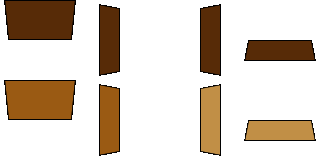
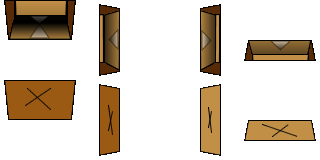
Changed the doors gfx (i'll reduce the doors invisible entrance area to keep Jesus cool, when he enters side doors). Just some idea Added the player shadow that's under the walls and over the BG floor

diff --git a/src/player.js b/src/player.js
@@ -1,6 +1,7 @@
 "use strict";
 waw.Player = waw.Unit.extend({
     sprite: null,
+    shadowSprite: null,
     speed: 0,
     movement: null,
     direction: null,
@@ -116,13 +117,11 @@ waw.Player = waw.Unit.extend({
                 delay: 0.1
             }
         };
-
-        var shadow = cc.Sprite.create(s_Shadow);
-        shadow.setPosition(0, -22);
-        this.addChild(shadow);
-
         this.sprite = new waw.AnimatedSprite(s_Jesus, animData);
         this.addChild(this.sprite);
+
+        //create players shadow sprite
+        this.shadowSprite = cc.Sprite.create(s_Shadow);
 
         this.alive = true;
     },
@@ -222,6 +221,9 @@ waw.Player = waw.Unit.extend({
         this.setPosition(pos);
         //Z Index
         this.setZOrder(250- pos.y);
+
+        //position shadow
+        this.shadowSprite.setPosition(pos.x, pos.y-8);
     },
     getState: function() {
         var state =

diff --git a/src/app.js b/src/app.js
@@ -52,6 +52,9 @@ waw.MainLayer = cc.Layer.extend({
         this.player = new waw.Player();
         this.player.setPosition(currentPlayerPos);
         this.addChild(this.player, 250-currentPlayerPos.y);
+        //attach players shadow to layer OVER BG floor (its Z index = -15)
+        this.addChild(this.player.shadowSprite,-14);
+
         //anti stuck START POSITION of player check
         while( this.player.doesCollide(this.units)) {
             currentPlayerPos.x = Math.round(Math.random()*320);
